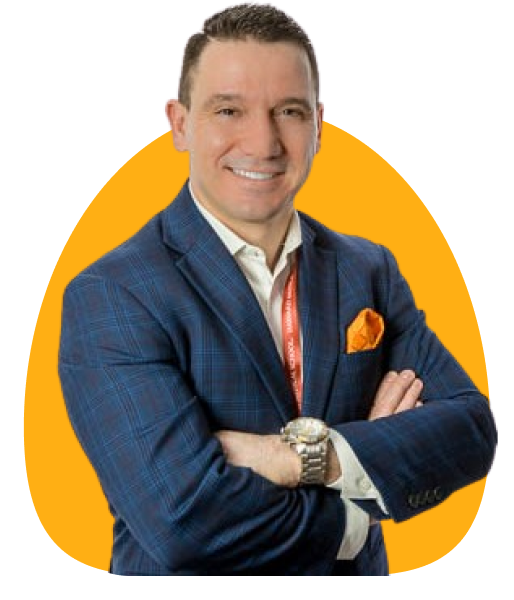
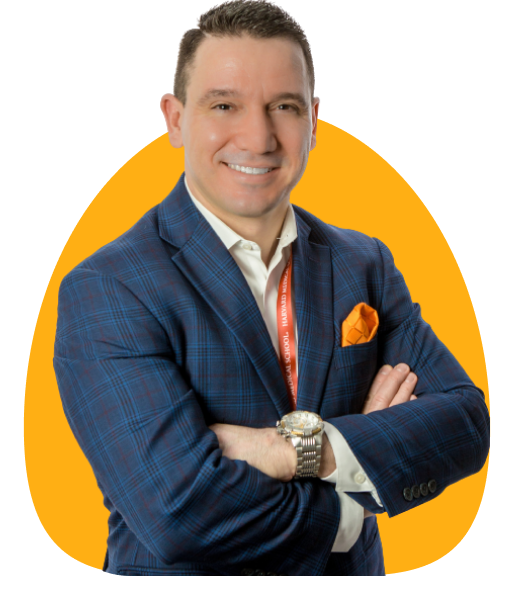
changes

diff --git a/src/pages/home.jsx b/src/pages/home.jsx
@@ -15,8 +15,6 @@ import Main4 from './../assets/home/4.png';
 import Main5 from './../assets/home/5.png';
 import Main6 from './../assets/home/6.png';
 import Main7 from './../assets/home/7.png';
-import Main8 from './../assets/home/8.png';
-import Animated from './../assets/home/animated-1.gif';
 import { useNavigate } from 'react-router-dom';
 
 const HomePage = () => {
@@ -31,10 +29,14 @@ const HomePage = () => {
                 Nurturing Mental Health resilience
               </Heading>
               <Para>
-                Dawn Health provides parents, guardians, and secondary education
-                institutions with the tools to nurture mental health resilience,
-                create stronger relationships with their children, help keep
-                them engaged in school, and see them thrive.
+                At Dawn Health, we're transforming adolescent mental healthcare
+                with a groundbreaking approach that prioritizes preventive
+                wellness. By identifying and addressing pre-crisis conditions,
+                we can help teens and their parents proactively manage their
+                mental health. Our innovative approach is designed to detect and
+                respond to increased depression and anxiety acuity levels,
+                ensuring that families receive the support they need before a
+                crisis occurs.
               </Para>
               <Button className="mt-3 mb-3" onClick={() => navigate('/signup')}>
                 Explore More
@@ -42,16 +44,11 @@ const HomePage = () => {
             </Col>
             <Col
               md={6}
-              className="text-end wow animate__animated animate__fadeInRight wrapper"
+              className="text-end wow animate__animated animate__fadeInRight"
             >
               <img
-                src={Main8}
-                className="img-fluid main-image wrapper-image"
-                alt="main image"
-              />
-              <img
-                src={Animated}
-                className="img-fluid main-image inner-image"
+                src={Main}
+                className="img-fluid main-image"
                 alt="main image"
               />
             </Col>
@@ -64,7 +61,7 @@ const HomePage = () => {
             <Col md={12}>
               <SectionHeader
                 className="wow animate__animated animate__fadeInLeft pb-main"
-                title="Experience our story in motion "
+                title="Mental Health Resilience For Adolescents"
               >
                 Families connect with us
               </SectionHeader>
@@ -119,10 +116,16 @@ const HomePage = () => {
                 <Col lg={3}>
                   <Card>
                     <img src={Main4} className="img-fluid mb-3" alt="main" />
-                    <Title>Biweekly PHQAssessment </Title>
+                    <Title>
+                      Biweekly Evidence-Based Assessment for Depression &
+                      Anxiety
+                    </Title>
                     <Para>
-                      Text-based diagnosis tool to measure the severity of
-                      depression and anxiety
+                      Text-based diagnosis tool, validated by the American
+                      Psychiatric Association (APA) and the U.S. Preventive
+                      Services Task Force (USPSTF), that also engages
+                      parents/guardians to measure the symptoms' acuity level in
+                      adolescents
                     </Para>
                   </Card>
                 </Col>

diff --git a/src/pages/team.jsx b/src/pages/team.jsx
@@ -6,7 +6,8 @@ import { SectionHeader } from '../components/SectionHeader';
 import TeamCard from '../components/TeamCard';
 import { teamMembers } from '../data/team';
 import { Hero, SectionWrapper, TeamPageWrapper } from '../styles';
-import Main from './../assets/home/1.png';
+import Main8 from './../assets/home/8.png';
+import Animated from './../assets/home/animated-1.gif';
 
 const TeamPage = () => {
   return (
@@ -20,17 +21,22 @@ const TeamPage = () => {
               </Heading>
               <Para>
                 Breaking access to care barriers and fostering mental health
-                resilience: Together, we're supporting mental health for all
+                resilience. Together, we're supporting mental health for all
                 children.
               </Para>
             </Col>
             <Col
               md={6}
-              className="text-end wow animate__animated animate__fadeInRight"
+              className="text-end wow animate__animated animate__fadeInRight wrapper"
             >
               <img
-                src={Main}
-                className="img-fluid main-image"
+                src={Main8}
+                className="img-fluid main-image wrapper-image"
+                alt="main image"
+              />
+              <img
+                src={Animated}
+                className="img-fluid main-image inner-image"
                 alt="main image"
               />
             </Col>
@@ -40,10 +46,15 @@ const TeamPage = () => {
       <SectionWrapper>
         <Container>
           <Row>
-            <Col md={5} className="wow animate__animated animate__fadeInLeft">
-              <SectionHeader className="pb-main" title="Our Leadership Team">
-                Let us guide you towards healing and resilience, one step at a
-                time. With our team, you are never alone on your journey.
+            <Col md={8} className="wow animate__animated animate__fadeInLeft">
+              <SectionHeader className="pb-main" title="Guiding Force">
+                The Guiding Force is a team of experienced professionals from
+                diverse backgrounds, industries, professions, and religions.
+                Despite their differences, they share a common vision: to create
+                a system that fosters mental health resilience in adolescents
+                and supports their parents. Together, they are committed to
+                making a difference by leveraging their collective expertise to
+                build a better future for the next generation.
               </SectionHeader>
             </Col>
           </Row>

diff --git a/src/components/Navbar/index.jsx b/src/components/Navbar/index.jsx
@@ -26,8 +26,11 @@ export const Header = (props) => {
             </RecLink>
           </Navbar.Brand>
           <Navbar.Toggle aria-controls="responsive-navbar-nav" />
-          <Navbar.Collapse id="responsive-navbar-nav me-auto">
-            <NavItem className="mx-auto">
+          <Navbar.Collapse
+            id="responsive-navbar-nav"
+            className="justify-content-end"
+          >
+            <NavItem>
               {navLinks.map((navLink) => (
                 <RecLink
                   key={navLink.id}
@@ -38,9 +41,9 @@ export const Header = (props) => {
                 </RecLink>
               ))}
             </NavItem>
-            <NavItem>
+            {/* <NavItem>
               <Button onClick={() => navigate('/signup')}>Signup</Button>
-            </NavItem>
+            </NavItem> */}
           </Navbar.Collapse>
         </Container>
       </Navbar>
